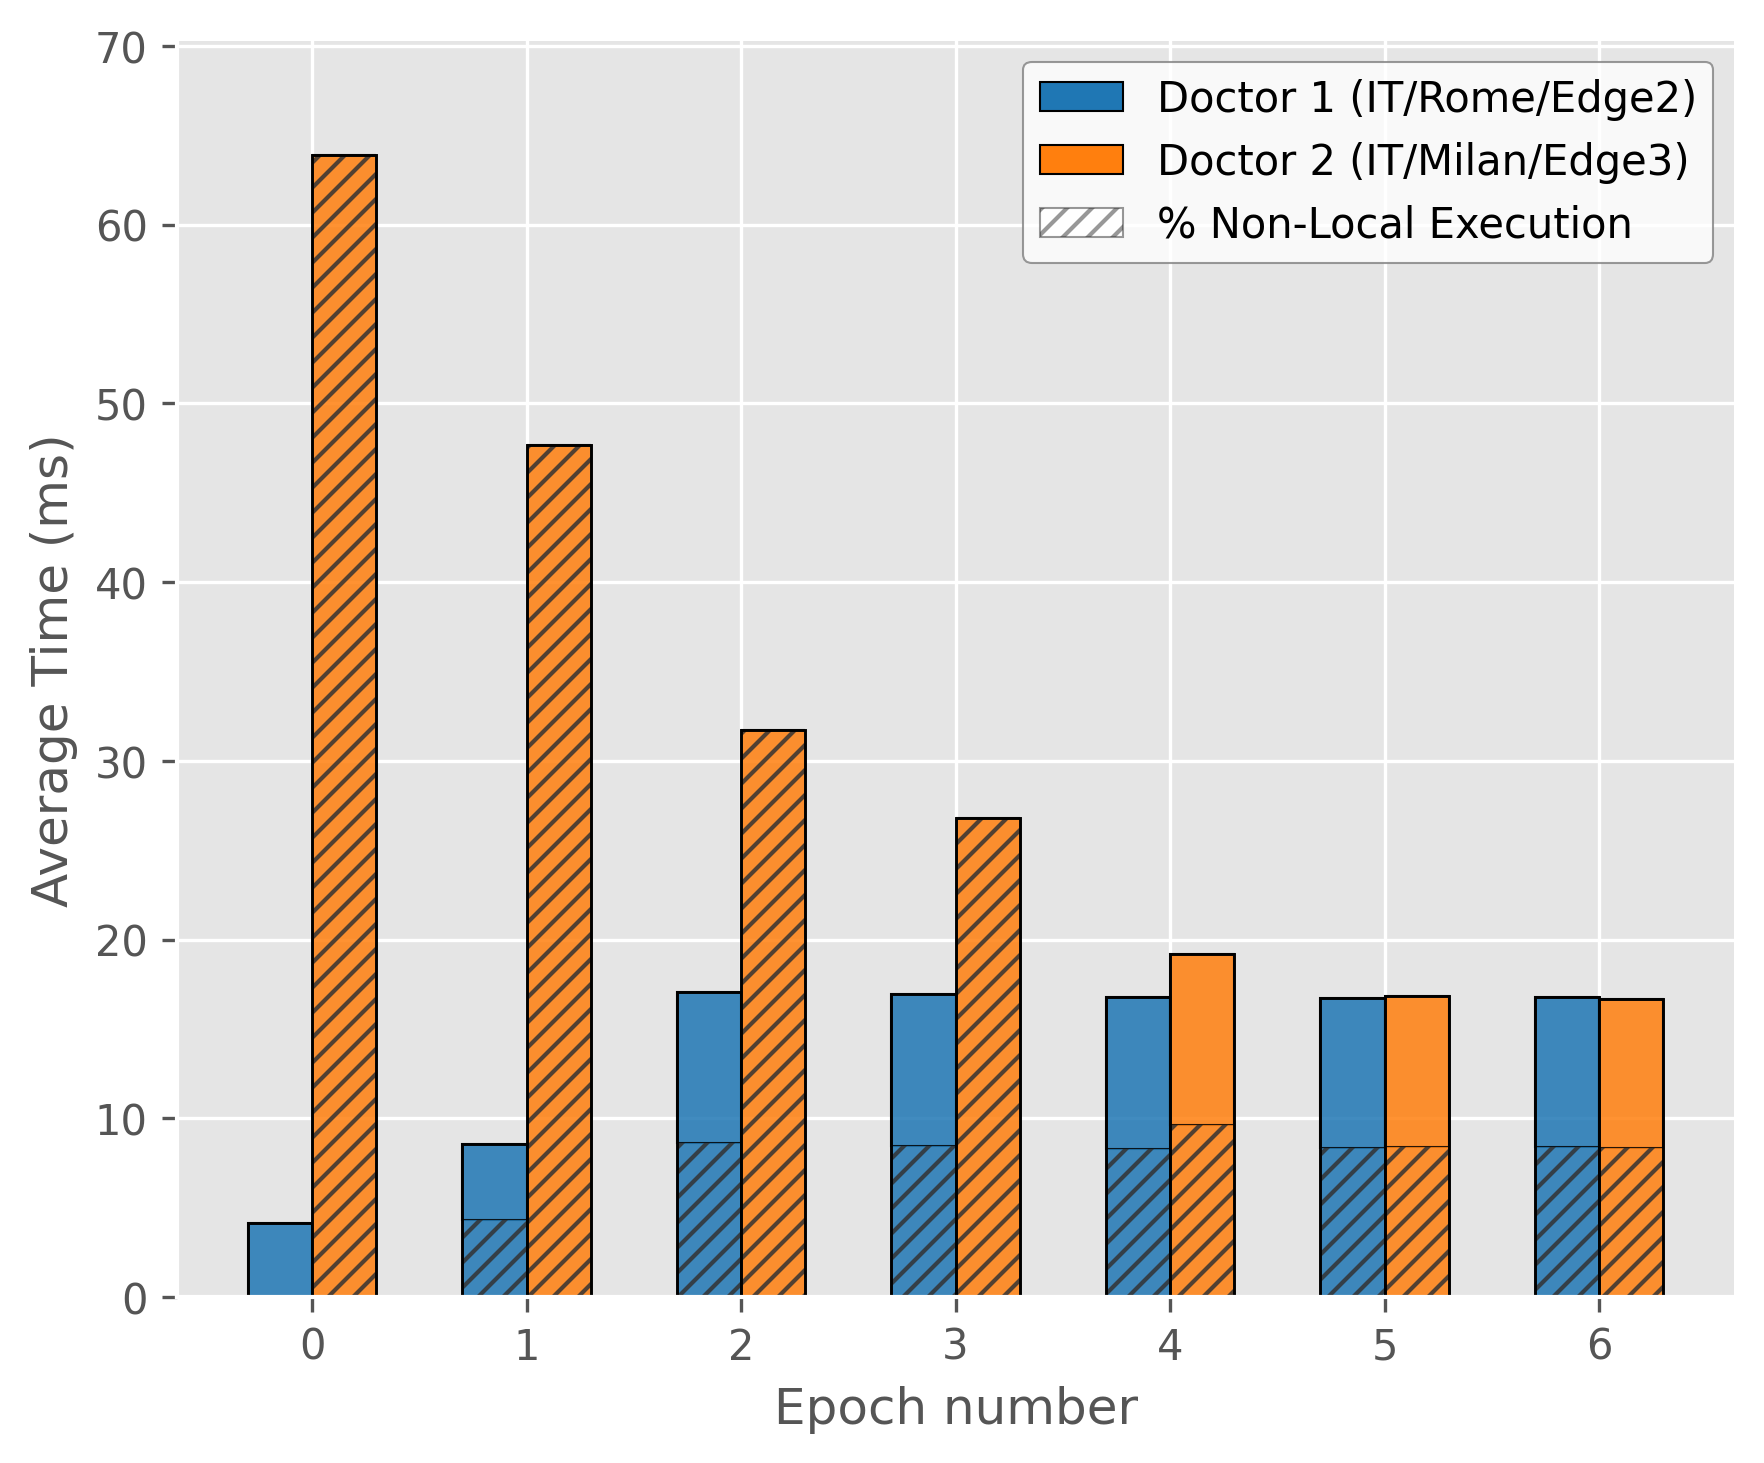
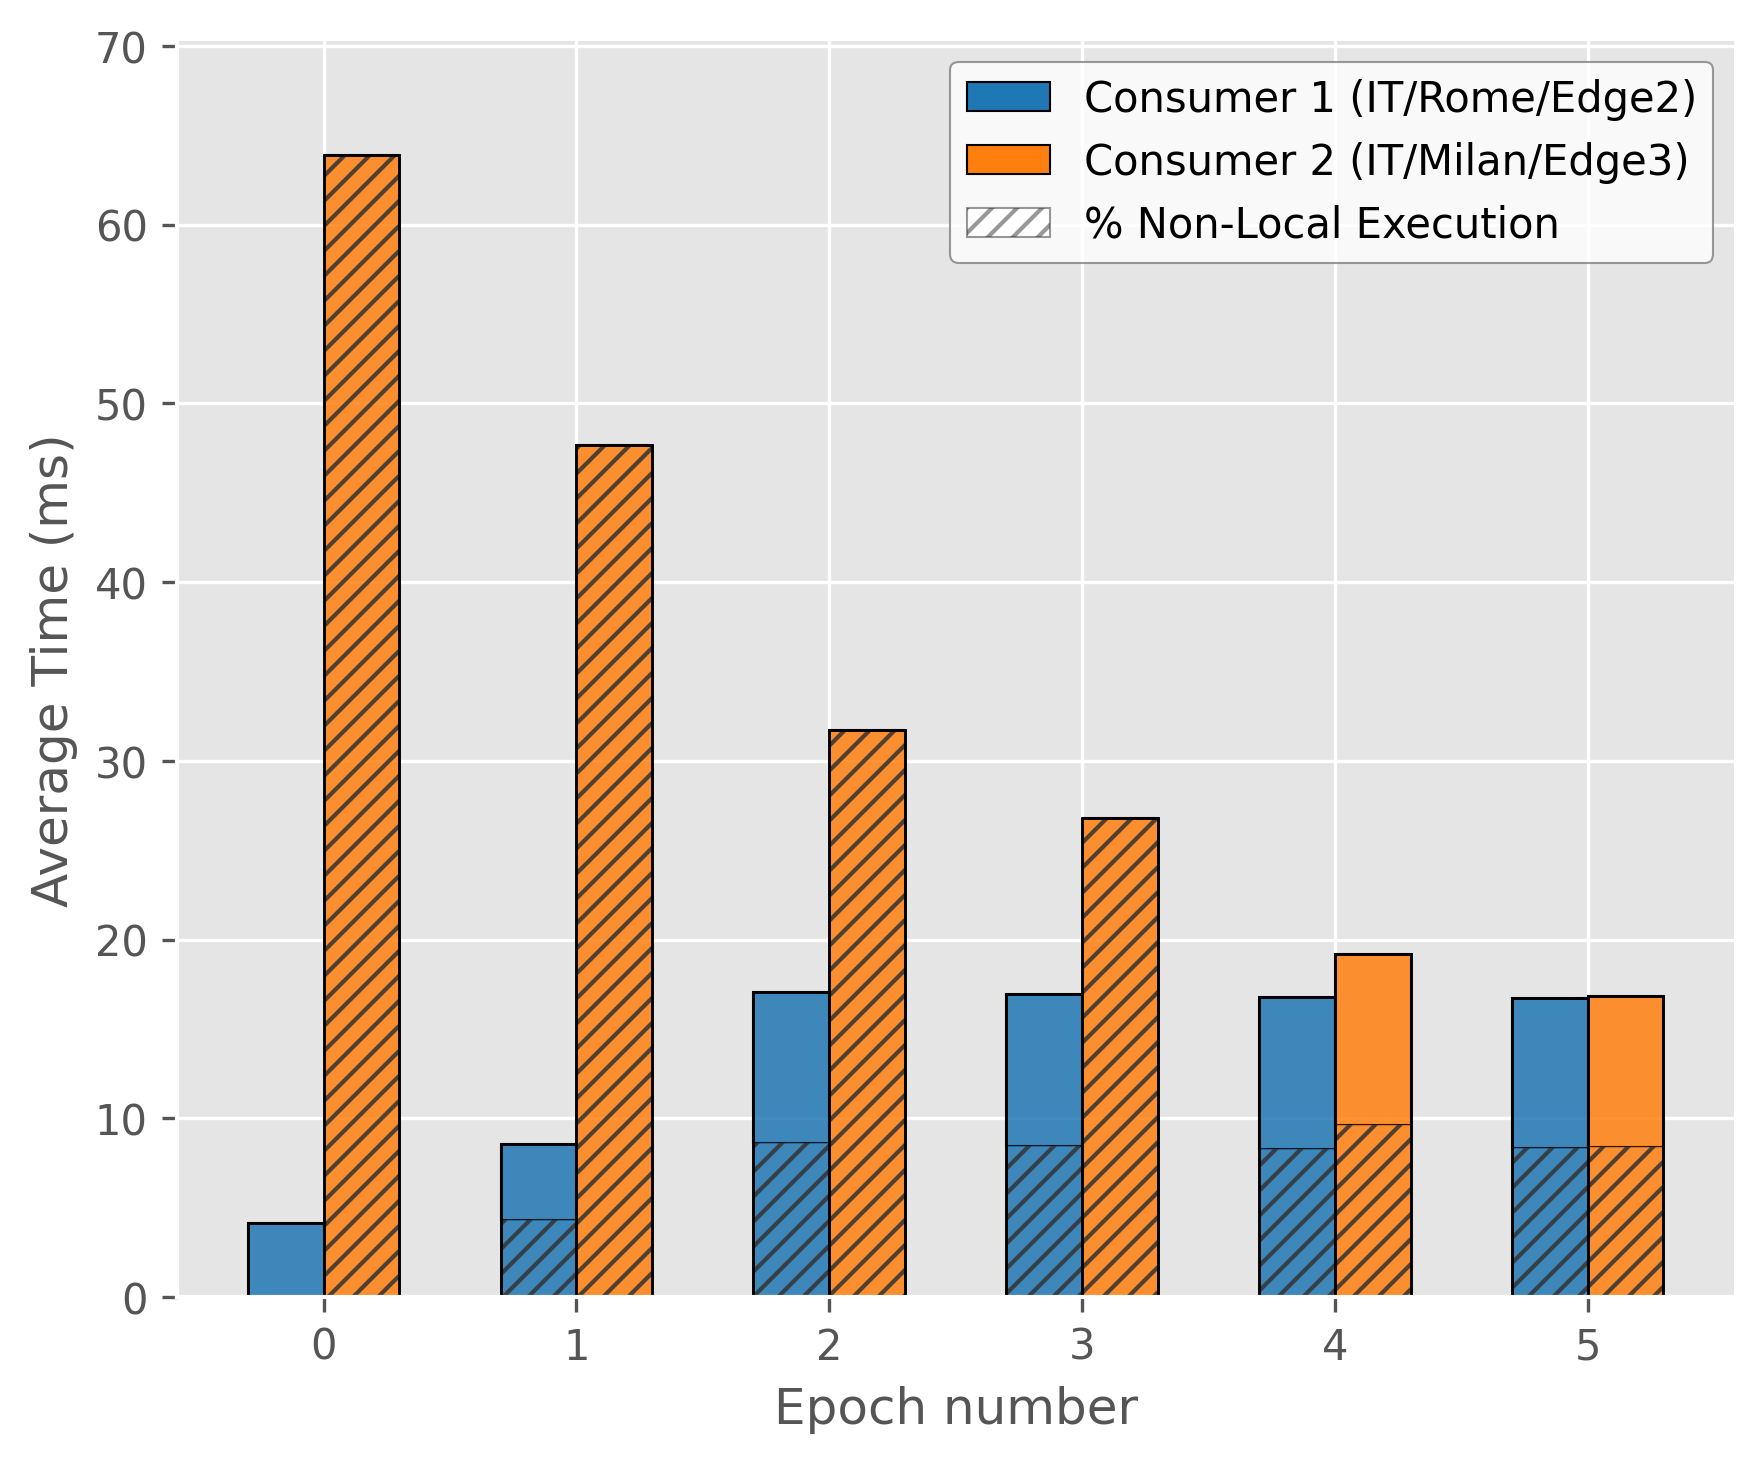
Cut epoch

Changed region(s): [[0.1559, 0.0615, 0.9354, 0.9228], [0.53, 0.0308, 0.9042, 0.1846]]

diff --git a/ermes_benchmark/convergence_test/code/main.py b/ermes_benchmark/convergence_test/code/main.py
@@ -162,7 +162,7 @@ def main():
 
     # 3.1 Latency Analysis (Line Plot)
     print("Generating execution time analysis...")
-    latency.plot_logs_avg_latency(full_dfs, args.subfolder, config.domains)
+    latency.plot_logs_avg_latency(full_dfs, args.subfolder, config.domains, max_rounds=6)
     plt.savefig(f'{output_dir}/execution_time_analysis.png', dpi=300, bbox_inches='tight')
     plt.savefig(f'{output_dir}/pdf/execution_time_analysis.pdf', bbox_inches='tight')
     plt.close()

diff --git a/wasm_benchmark/plot_timeline.py b/wasm_benchmark/plot_timeline.py
@@ -68,7 +68,7 @@ def plot_timelines(csv_files, output_file="memory_timeline.png"):
 
     plt.tight_layout()
 
-    plt.savefig(output_file, bbox_inches='tight')
+    plt.savefig(output_file, bbox_inches='tight', dpi=300)
     print(f"Chart saved to {output_file}")
 
 if __name__ == "__main__":
